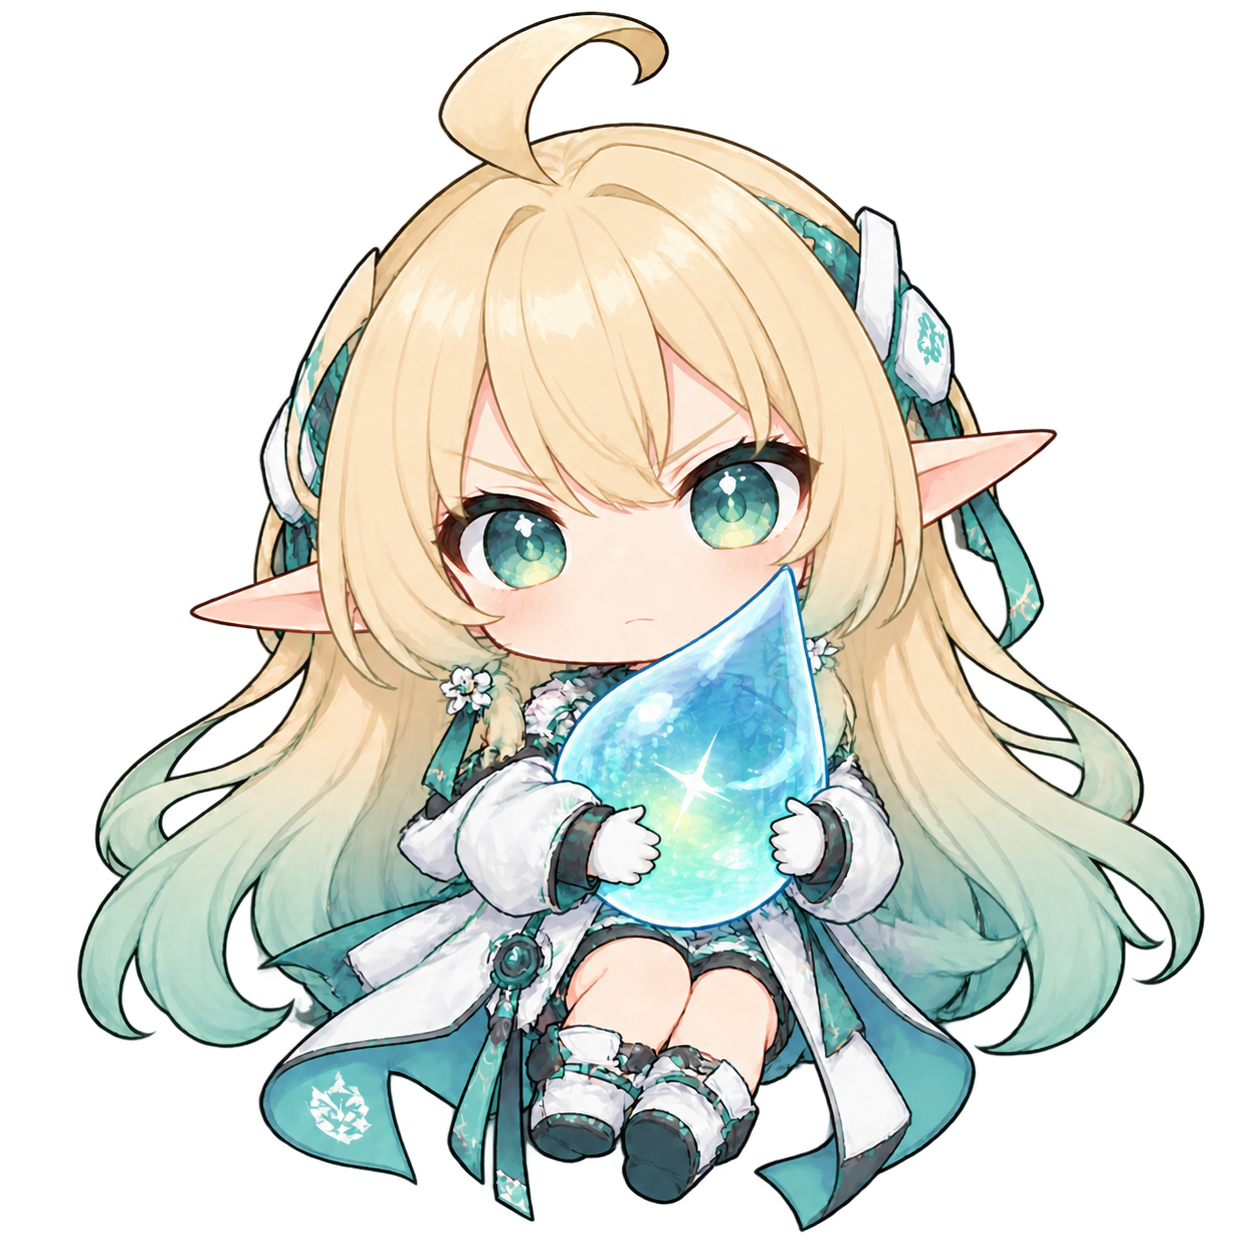
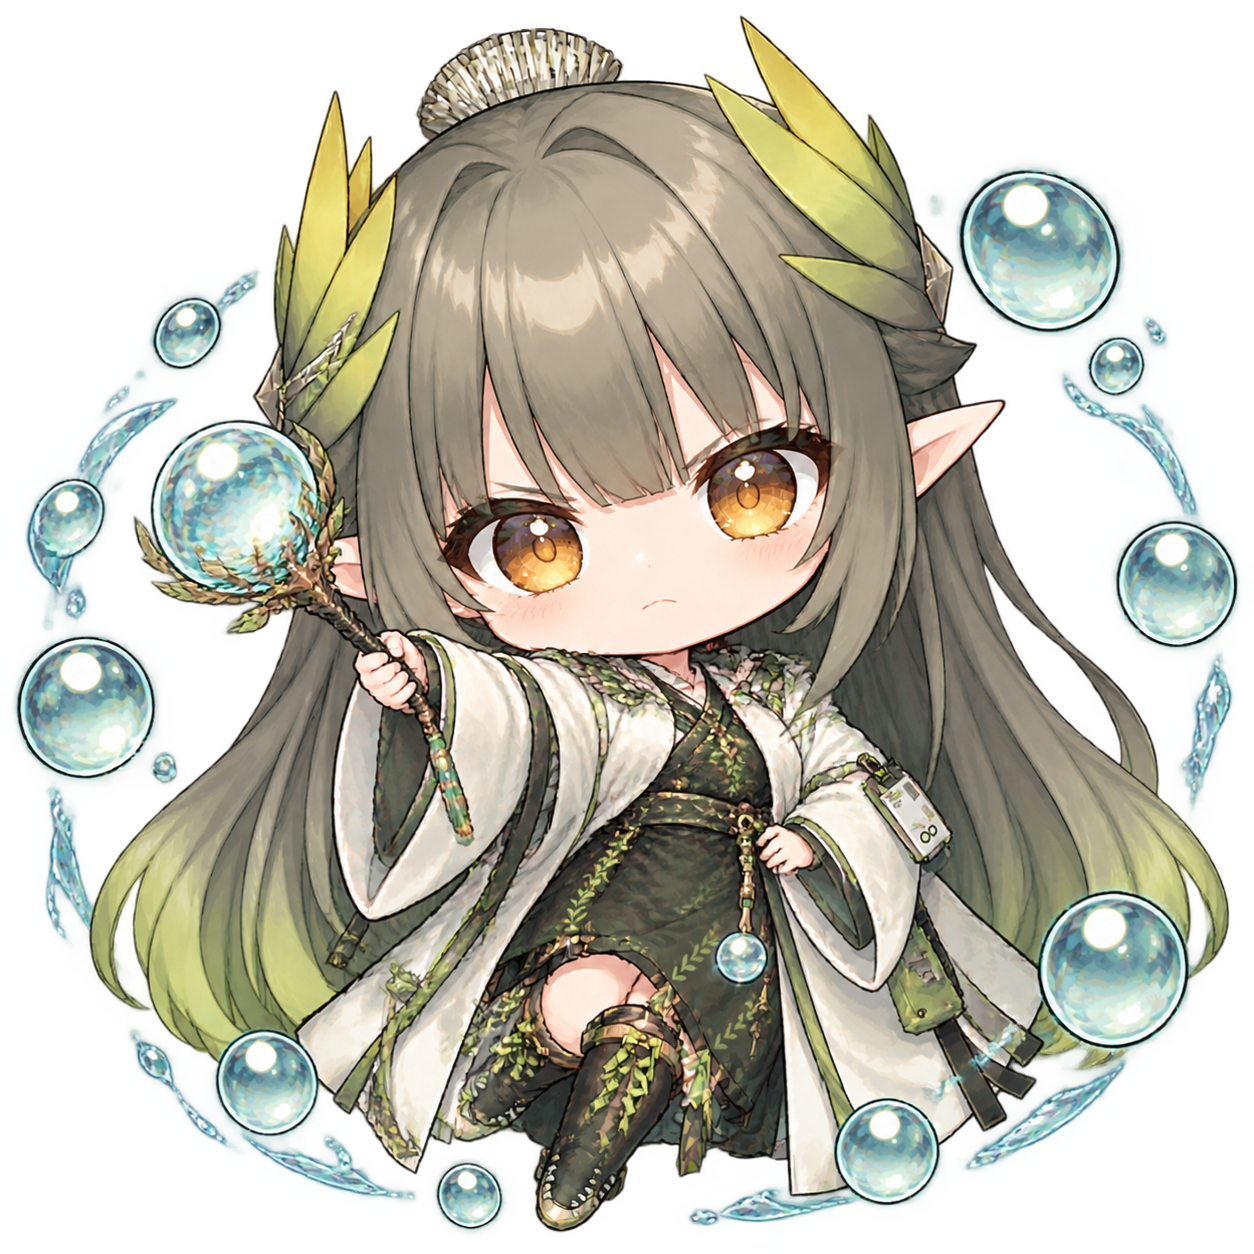
新增：全新立绘桌宠「缪尔赛思」，原缪尔赛思更名为「洛涟」并存档自动迁移（v1.6.0）

diff --git a/src/renderer/src/data/pets.js b/src/renderer/src/data/pets.js
@@ -1,5 +1,5 @@
 // 桌宠图鉴：局外伙伴定义 + 状态机（立绘由用户生成提供）
-// 缪尔赛思
+// 缪尔赛思（v1.6.0 新立绘，参考官方美术重制）
 import mChibiNormal from '../assets/pets/muelsyse/Muelsyse-chibi.png'
 import mChibiHappy from '../assets/pets/muelsyse/Muelsyse-chibi-happy.png'
 import mChibiDispirited from '../assets/pets/muelsyse/Muelsyse-chibi-dispirited.png'
@@ -11,6 +11,18 @@ import mChibiCry from '../assets/pets/muelsyse/Muelsyse-chibi-cry.png'
 import mChibiDizziness from '../assets/pets/muelsyse/Muelsyse-chibi-dizziness.png'
 import mChibiTsundere from '../assets/pets/muelsyse/Muelsyse-chibi-tsundere.png'
 import mFullImg from '../assets/pets/muelsyse/Muelsyse-full.png'
+// 洛涟（原缪尔赛思立绘，v1.6.0 更名）
+import luChibiNormal from '../assets/pets/luolian/Luolian-chibi.png'
+import luChibiHappy from '../assets/pets/luolian/Luolian-chibi-happy.png'
+import luChibiDispirited from '../assets/pets/luolian/Luolian-chibi-dispirited.png'
+import luChibiQuery from '../assets/pets/luolian/Luolian-chibi-query.png'
+import luChibiEarnest from '../assets/pets/luolian/Luolian-chibi-earnest.png'
+import luChibiPonder from '../assets/pets/luolian/Luolian-chibi-ponder.png'
+import luChibiHunger from '../assets/pets/luolian/Luolian-chibi-hunger.png'
+import luChibiCry from '../assets/pets/luolian/Luolian-chibi-cry.png'
+import luChibiDizziness from '../assets/pets/luolian/Luolian-chibi-dizziness.png'
+import luChibiTsundere from '../assets/pets/luolian/Luolian-chibi-tsundere.png'
+import luFullImg from '../assets/pets/luolian/Luolian-full.png'
 // 璃珑（中国风龙少女）
 import lChibiNormal from '../assets/pets/lilong/Lilong-chibi.png'
 import lChibiHappy from '../assets/pets/lilong/Lilong-chibi-happy.png'
@@ -62,6 +74,19 @@ const chibisMuelsyse = {
   tsundere: mChibiTsundere
 }
 
+const chibisLuolian = {
+  normal: luChibiNormal,
+  happy: luChibiHappy,
+  dispirited: luChibiDispirited,
+  query: luChibiQuery,
+  earnest: luChibiEarnest,
+  ponder: luChibiPonder,
+  hunger: luChibiHunger,
+  cry: luChibiCry,
+  dizziness: luChibiDizziness,
+  tsundere: luChibiTsundere
+}
+
 const chibisLilong = {
   normal: lChibiNormal,
   happy: lChibiHappy,
@@ -110,7 +135,7 @@ export const PET_DEFS = [
         '今天的变量也由我来观察吧！',
         '生态科的工作可不能偷懒哦。',
         '要看看水的变化吗？',
-        '嗯嗯，记录：御灵在家很乖。'
+        '嗯嗯，记录：一切都在变量之中。'
       ],
       happy: [
         '哇，赢了赢了！',
@@ -166,6 +191,80 @@ export const PET_DEFS = [
         '这场战斗，交给你了！',
         '变量解析，开始！',
         '小心点，别太勉强哦。'
+      ]
+    }
+  },
+  {
+    id: 'luolian',
+    name: '洛涟',
+    title: '清波之涟 · 水精灵',
+    price: 600,
+    desc: '金发碧眼的亲水精灵，怀抱一颗晶莹水珠，所到之处清波荡漾。会在小窗模式陪伴你推进行动线，随战况与饱食度变换表情。',
+    chibis: chibisLuolian,
+    chibiImg: luChibiNormal,
+    fullImg: luFullImg,
+    quotes: {
+      idle: [
+        '清波荡漾，今天就交给我吧～',
+        '水珠说，它也想看看你的行动线！',
+        '要保持水润哦，干涸可不行。',
+        '听，水声在为你打拍子～',
+        '嗯嗯，记录：今天也是水灵灵的一天。'
+      ],
+      happy: [
+        '哇，赢了赢了！水花四溅～',
+        '水位上涨，心情满分！',
+        '干得漂亮！这颗水珠送给你！'
+      ],
+      dispirited: [
+        '呜……涟漪散开了。',
+        '水面变得好浑浊……',
+        '下次一定推得更远。'
+      ],
+      query: [
+        '这里需要你来决定哦？',
+        '下一步怎么走？',
+        '欸？轮到你操作了～'
+      ],
+      earnest: [
+        '战斗中，涟漪也绷紧了！',
+        '水纹观测，开始！',
+        '稳住，水势站在你这边。'
+      ],
+      ponder: [
+        '唔……让我想想。',
+        '对着水面发会儿呆……',
+        '这个选择，值得思索。'
+      ],
+      hunger: [
+        '肚子有点饿了……',
+        '想吃点生态口粮……',
+        '水位在下降哦。'
+      ],
+      cry: [
+        '呜呜，快饿坏了……',
+        '口粮……口粮在哪里……',
+        '再不喂我，眼泪都要汇成小水洼了！'
+      ],
+      dizziness: [
+        '（饿晕了，没有回应）',
+        '……zZZ……',
+        '（水精灵失去了意识）'
+      ],
+      tsundere: [
+        '干、干嘛戳我！',
+        '哼，才不是为了你才留下来的！',
+        '别乱摸啦！……水珠都晃起来了。'
+      ],
+      feed: [
+        '开动啦～',
+        '这个味道，是清泉的感觉！',
+        '水量回升！工作效率UP！'
+      ],
+      battle: [
+        '这场战斗，交给你了！',
+        '水纹观测，开始！',
+        '稳住，水势站在你这边。'
       ]
     }
   },

diff --git a/src/renderer/src/state.js b/src/renderer/src/state.js
@@ -24,12 +24,31 @@ export const G = {
 const hasApi = typeof window !== 'undefined' && window.api
 
 // 桌宠仓库兜底（旧存档兼容）
+// v1.6.0 更名迁移：原「缪尔赛思」（金发水精灵立绘）更名为「洛涟」，id muelsyse → luolian
+const PET_ID_MIGRATE = { muelsyse: 'luolian' }
+
 function sanitizePet(p) {
   const base = { owned: {}, active: null, food: 0, satiety: {}, affection: {}, lastDecay: 0, lastInteract: 0 }
   const pet = { ...base, ...(p || {}) }
   pet.owned = pet.owned && typeof pet.owned === 'object' ? pet.owned : {}
   pet.satiety = pet.satiety && typeof pet.satiety === 'object' ? pet.satiety : {}
   pet.affection = pet.affection && typeof pet.affection === 'object' ? pet.affection : {}
+  // 旧 id 迁移：所有权、饱食度、好感度随迁
+  for (const [oldId, newId] of Object.entries(PET_ID_MIGRATE)) {
+    if (pet.owned[oldId]) {
+      pet.owned[newId] = true
+      delete pet.owned[oldId]
+    }
+    if (pet.satiety[oldId] != null && pet.satiety[newId] == null) {
+      pet.satiety[newId] = pet.satiety[oldId]
+      delete pet.satiety[oldId]
+    }
+    if (pet.affection[oldId] != null && pet.affection[newId] == null) {
+      pet.affection[newId] = pet.affection[oldId]
+      delete pet.affection[oldId]
+    }
+    if (pet.active === oldId) pet.active = newId
+  }
   return pet
 }
 

diff --git a/版本更新记录/v 1.6.0更新记录.md b/版本更新记录/v 1.6.0更新记录.md
@@ -1,0 +1,28 @@
+# v 1.6.0 更新记录
+
+> 桌宠阵容调整：原「缪尔赛思」桌宠更名为「洛涟」（立绘与设定不变），并以全新立绘重制「缪尔赛思」桌宠。
+
+## 新增
+
+### 桌宠「缪尔赛思」（全新立绘重制）
+
+- 参考美术示例中的缪尔赛思立绘，全新绘制整套桌宠美术：1 张全身立绘 + 10 张 Q 版状态图（常态 / 高兴 / 沮丧 / 疑问 / 认真 / 思索 / 饥饿 / 哭泣 / 晕倒 / 傲娇），全部为透明底 PNG；
+- 形象特征完整还原：深墨绿渐变长发、精灵尖耳、琥珀色杏眼、黄绿色叶形发饰、白色长外套与黄绿色饰带，伴随漂浮水珠；
+- 台词沿用缪尔赛思专属风格（生态科、水量控制、变量解析等），图鉴商店中以 600 算力币出售，与其他桌宠一致。
+
+## 调整
+
+### 桌宠「缪尔赛思」更名为「洛涟」
+
+- 原桌宠（金发水精灵立绘）更名为「洛涟」，立绘资源与文案不变，称号调整为「清波之涟 · 水精灵」，台词微调以贴合新名字；
+- 资源目录由 `assets/pets/muelsyse/` 迁移至 `assets/pets/luolian/`，图片文件同步重命名为 `Luolian-*`；
+- 图鉴顺序调整为：缪尔赛思、洛涟、璃珑、鲸鱼娘 · deepseek。
+
+### 旧存档自动迁移
+
+- 读取存档时自动将旧桌宠 id `muelsyse` 的所有权、饱食度、好感度与装备状态迁移至 `luolian`，玩家已拥有的桌宠不会丢失；
+- 迁移后新「缪尔赛思」需在图鉴商店重新购买获得。
+
+## 其他
+
+- 版本号 v1.5.1 → v1.6.0（功能性更新）。
